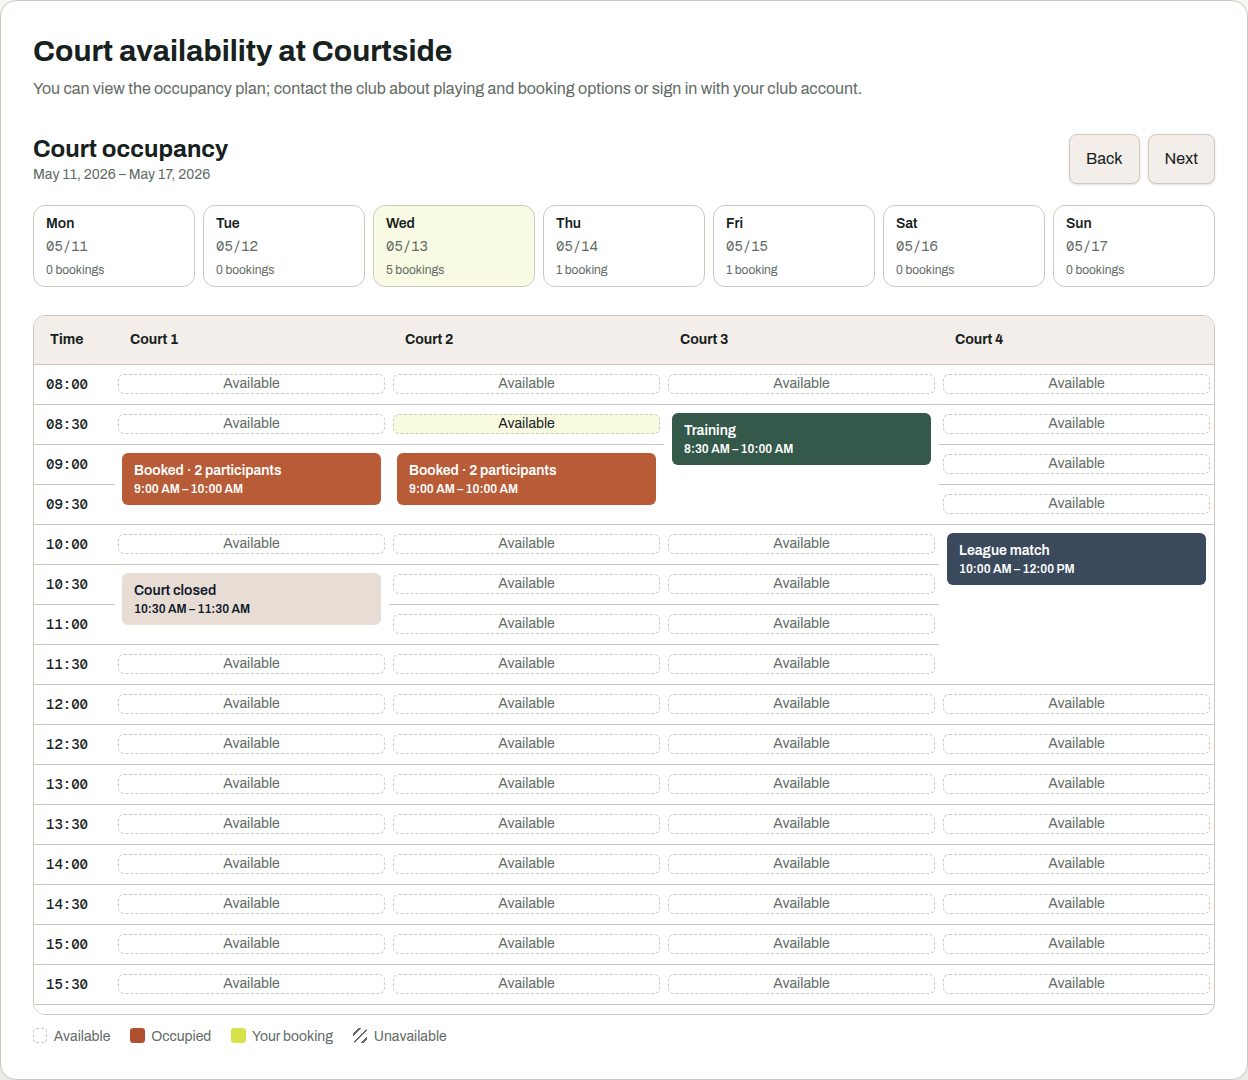
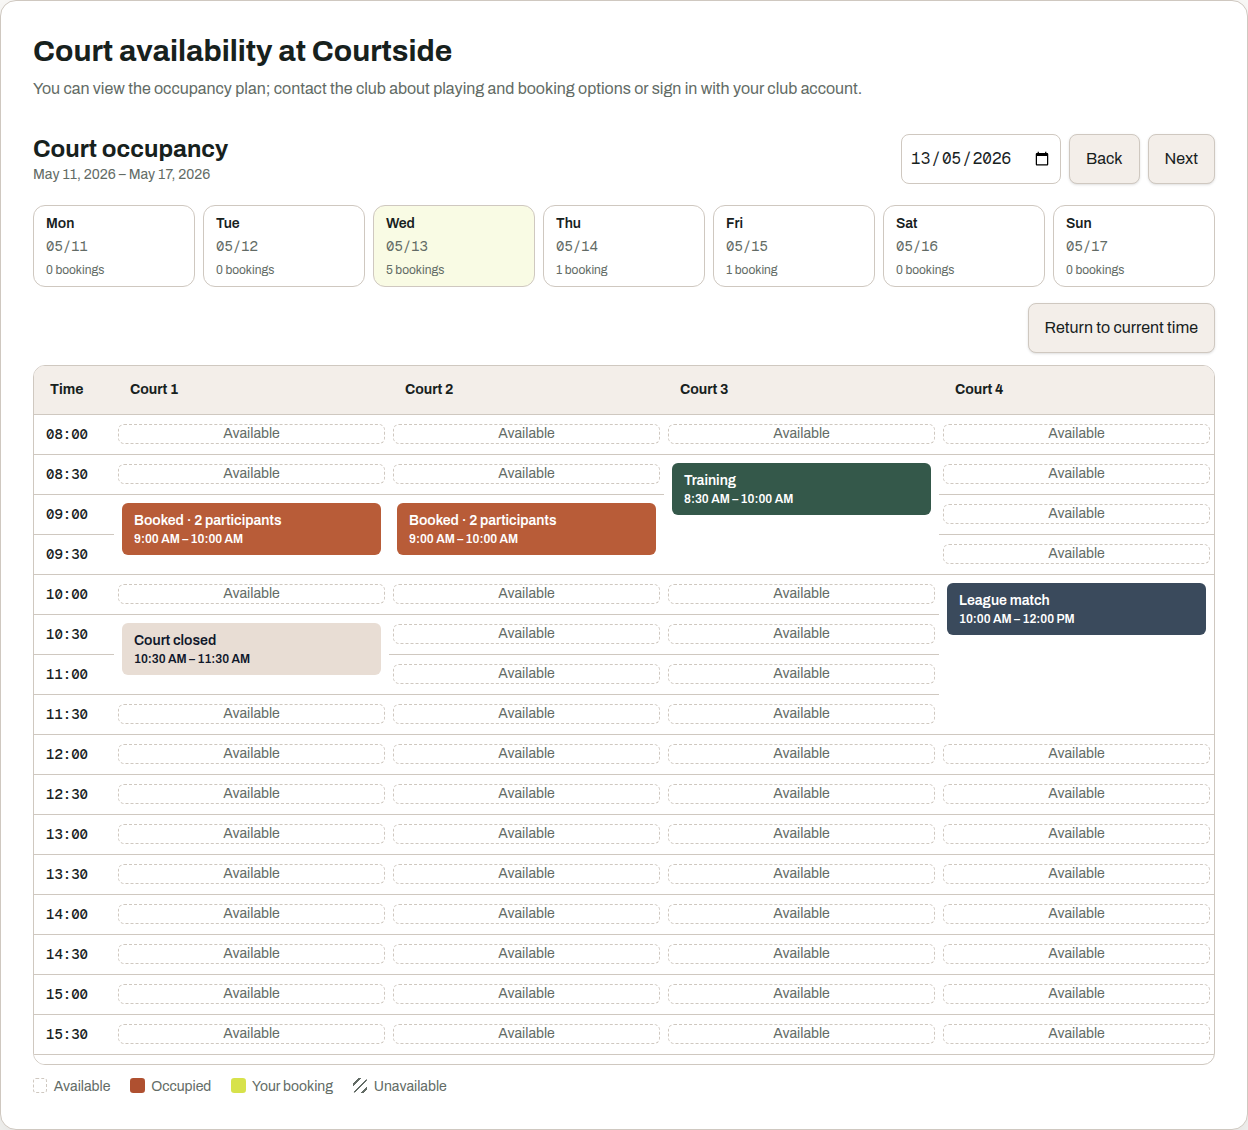
feat: let the court plan jump to a date, and return to now from any week
Stepping a week at a time was the only way to reach a date on a wide screen.
The day cards offer the week on screen and nothing beyond it, so a club looking
at a date three months out clicked thirteen times to get there.

A date of its own now sits beside the week navigation. The mechanism was
already there: `selectDate` derives the week offset from the target date, which
is what the narrow layout's date field has always used, so choosing any day
moves the week with it. The narrow layout keeps its own sticky field, and the
new one is hidden below the width where that takes over, so neither duplicates
the other.

`Return to current time` was bound to `isToday`, so it disappeared exactly when
it was needed: on any other day there was no way back except counting weeks in
the other direction. Both member handbooks already told a member to "select
Return to current time to return to today" - the sentence was right and the
implementation never did it. The button is now always present and does the two
things its name covers: on today it scrolls to the current time as before, and
on any other day it returns to today, week included.

Falsified: the return case fails on its assertion when the button renders but
only scrolls, rather than on a missing element, so it measures the journey home
and not the button's presence.

The three court-plan captures moved and no other baseline did, which is the
evidence that this is confined to the plan's header.

diff --git a/frontend/src/views/WeekView.test.tsx b/frontend/src/views/WeekView.test.tsx
@@ -1271,3 +1271,32 @@ it("given the courts cannot be read, when the plan fails, then the failure is sh
   expect(await screen.findByRole("alert")).toHaveTextContent("That did not work. Please try again.");
   expect(screen.queryByTestId("court-plan-empty")).toBeNull();
 });
+
+it("given the wide layout, when a date in another week is chosen there, then that week is shown", async () => {
+  // given — the day cards only ever offer the week on screen, so jumping needs a date of its own
+  render(<WeekView today={clubInstant("12:00")} />);
+  await screen.findByTestId("week-grid");
+
+  // when
+  fireEvent.change(screen.getByTestId("week-date"), { target: { value: "2026-08-26" } });
+
+  // then
+  await waitFor(() => expect(api.allocations).toHaveBeenCalledWith("2026-08-26"));
+  expect(screen.getByTestId("week-date")).toHaveValue("2026-08-26");
+  expect(screen.getByTestId("day-selector-2026-08-26")).toHaveAttribute("aria-pressed", "true");
+});
+
+it("given a day in another week, when returning to the current time, then today is shown again", async () => {
+  // given
+  render(<WeekView today={clubInstant("12:00")} />);
+  await screen.findByTestId("week-grid");
+  await userEvent.click(screen.getByTestId("week-next"));
+  await waitFor(() => expect(screen.getByTestId("selected-date")).toHaveValue("2026-08-17"));
+
+  // when
+  await userEvent.click(screen.getByTestId("current-time"));
+
+  // then
+  await waitFor(() => expect(screen.getByTestId("selected-date")).toHaveValue("2026-08-10"));
+  expect(await screen.findByTestId("current-time-line")).toBeInTheDocument();
+});

diff --git a/frontend/src/views/WeekView.tsx b/frontend/src/views/WeekView.tsx
@@ -222,6 +222,7 @@ export function WeekView({ today, clock = systemClock, canBook = true,
         {days.length > 0 && hasCourts && <p className="text-muted text-sm">{formatWeekRange(days, language)}</p>}
       </div>
       {(!data || hasCourts) && <div className="flex gap-2">
+        <input data-testid="week-date" type="date" value={selectedDate ?? ""} onChange={(event) => selectDate(event.target.value)} aria-label={t("week.chooseDate")} className="desktop-week-date form-control rounded-lg border px-2" />
         <Button variant="secondary" type="button" data-testid="week-previous" onClick={() => setWeekOffset((offset) => offset - 1)} aria-label={t("week.previous")}>
           {t("week.previousShort")}
         </Button>
@@ -271,7 +272,9 @@ export function WeekView({ today, clock = systemClock, canBook = true,
     {!data && !error && <p className="mt-6" aria-live="polite">{t("status.loading")}</p>}
     {data && !hasCourts && <p data-testid="court-plan-empty" className="text-muted mt-6">{t("week.noCourtOpen")}</p>}
     {data && hasCourts && <div className="mt-4 flex justify-end">
-      {isToday && <Button variant="secondary" type="button" data-testid="current-time" onClick={() => scrollToSlot(planRef.current, currentSlot)}>{t("week.now")}</Button>}
+      <Button variant="secondary" type="button" data-testid="current-time" onClick={() => isToday
+        ? scrollToSlot(planRef.current, currentSlot)
+        : selectDate(dateInTimeZoneValue(currentInstant, data.grid.timeZone))}>{t("week.now")}</Button>
     </div>}
     {data && hasCourts && <div
       ref={planRef}

diff --git a/frontend/src/styles.css b/frontend/src/styles.css
@@ -228,7 +228,8 @@ input[type="time"] {
 }
 
 @media (width < 1024px) {
-  .desktop-day-navigation {
+  .desktop-day-navigation,
+  .desktop-week-date {
     display: none;
   }
 

diff --git a/site/member-guide.md b/site/member-guide.md
@@ -8,9 +8,10 @@ und Menüpunkten stehen *kursiv*. Öffnungszeiten, Fristen und Obergrenzen legt 
 Die Startseite zeigt den Platzplan auch ohne Anmeldung. Auf einem großen Bildschirm siehst du eine
 Woche, auf einem schmalen Bildschirm einen Tag.
 
-1. Wähle *Vorherige Woche* oder *Nächste Woche*, um den Zeitraum zu wechseln.
-2. Wähle *Zur aktuellen Zeit*, um zum heutigen Tag zurückzukehren.
-3. Lies in der Legende, ob ein Zeitraum **Frei**, **Belegt**, **Deine Buchung**,
+1. Wähle unter *Datum auswählen* einen Tag, um direkt dorthin zu springen, auch über Wochen hinweg.
+2. Wähle *Vorherige Woche* oder *Nächste Woche*, um schrittweise zu blättern.
+3. Wähle *Zur aktuellen Zeit*, um zum heutigen Tag zurückzukehren. Das geht von jedem Zeitraum aus.
+4. Lies in der Legende, ob ein Zeitraum **Frei**, **Belegt**, **Deine Buchung**,
    **Nicht verfügbar** oder **Vergangen** ist.
 
 An geschlossenen Tagen zeigt Courtside kein Raster. Bei fremden Buchungen siehst du entweder die

diff --git a/site/en/member-guide.md b/site/en/member-guide.md
@@ -8,9 +8,10 @@ This handbook explains the features you need as a member. Button and menu names 
 The home page shows the court plan without requiring you to sign in. A wide screen shows one week.
 A narrow screen shows one day.
 
-1. Select *Previous week* or *Next week* to change the period.
-2. Select *Return to current time* to return to today.
-3. Use the legend to identify **Available**, **Occupied**, **Your booking**, **Unavailable** and
+1. Use *Choose date* to jump straight to a day, across weeks as well.
+2. Select *Previous week* or *Next week* to step through the periods.
+3. Select *Return to current time* to return to today. This works from any period.
+4. Use the legend to identify **Available**, **Occupied**, **Your booking**, **Unavailable** and
    **Past** periods.
 
 Courtside does not show a grid on days when the club is closed. Another member's booking displays
